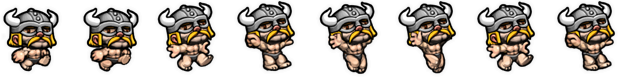
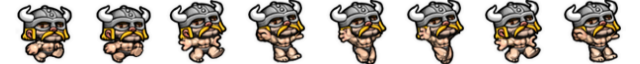
Walking animation

diff --git a/Final/Code/Final.js b/Final/Code/Final.js
@@ -1,4 +1,4 @@
-let player, numPlat, platforms, meat;
+let player, numPlat, platforms, meat, idle, walksheet, jumpsheet, idleanimation, walkanimation, jumpanimation;
 let GRAVITY = 1;
 let LIFES = 5;
 let JUMP = -15;
@@ -14,6 +14,13 @@ function preload() {
 	thickDirt = loadImage('Art/thickDirt.png');
 	thinDirt = loadImage('Art/thinDirt.png');
   meatImg = loadImage('Art/Meat.png');
+  idle = loadImage('Art/idle.png');
+  walksheet = loadSpriteSheet('Art/walk.png', 80, 64, 8);
+  jumpsheet = loadSpriteSheet('Art/jump.png', 80, 64, 8);
+
+  idleanimation = loadAnimation(idle);
+  walkanimation = loadAnimation(walksheet);
+  jumpanimation = loadAnimation(jumpsheet);
 }
 
 function createLevel(){
@@ -35,8 +42,11 @@ function createLevel(){
 }
 function setup() {
   createCanvas(1200, 800);
-  player = createSprite(40, 350, 80, 80);
-  player.shapeColor = color(206,32,41);
+  player = createSprite(40, 350, 80, 64);
+  player.addAnimation('idle', idleanimation);
+  player.addAnimation('walk', walkanimation);
+  player.addAnimation('jump', jumpanimation);
+  player.scale = 1.5;
   numPlat = xCord.length;
   platforms = new Group();
   createLevel();
@@ -74,25 +84,33 @@ function draw() {
     }
 
     if(player.collide(platforms) && player.touching.bottom){
+      player.changeAnimation('idle');
       player.velocity.x = 0;
       canJump = true;
       canDouble = true;
     }
     else{
+      player.changeAnimation('jump');
       player.velocity.y += GRAVITY;
     }
     if (keyWentDown('space') && canJump){
       player.velocity.y = JUMP;
+      //player.changeAnimation('jump');
     }
     else if(keyWentDown('space') && canDouble){
       canDouble = false;
       player.velocity.y = JUMP;
+      
     }
-    if(keyDown('d')){
+    else if(keyDown('d')){
       player.velocity.x = 5;
+      player.mirrorX(1);
+      player.changeAnimation('walk');
     }
     else if(keyDown('a')){
       player.velocity.x = -5;
+      player.mirrorX(-1);
+      player.changeAnimation('walk');
     }
     else{
       player.velocity.x = 0;
